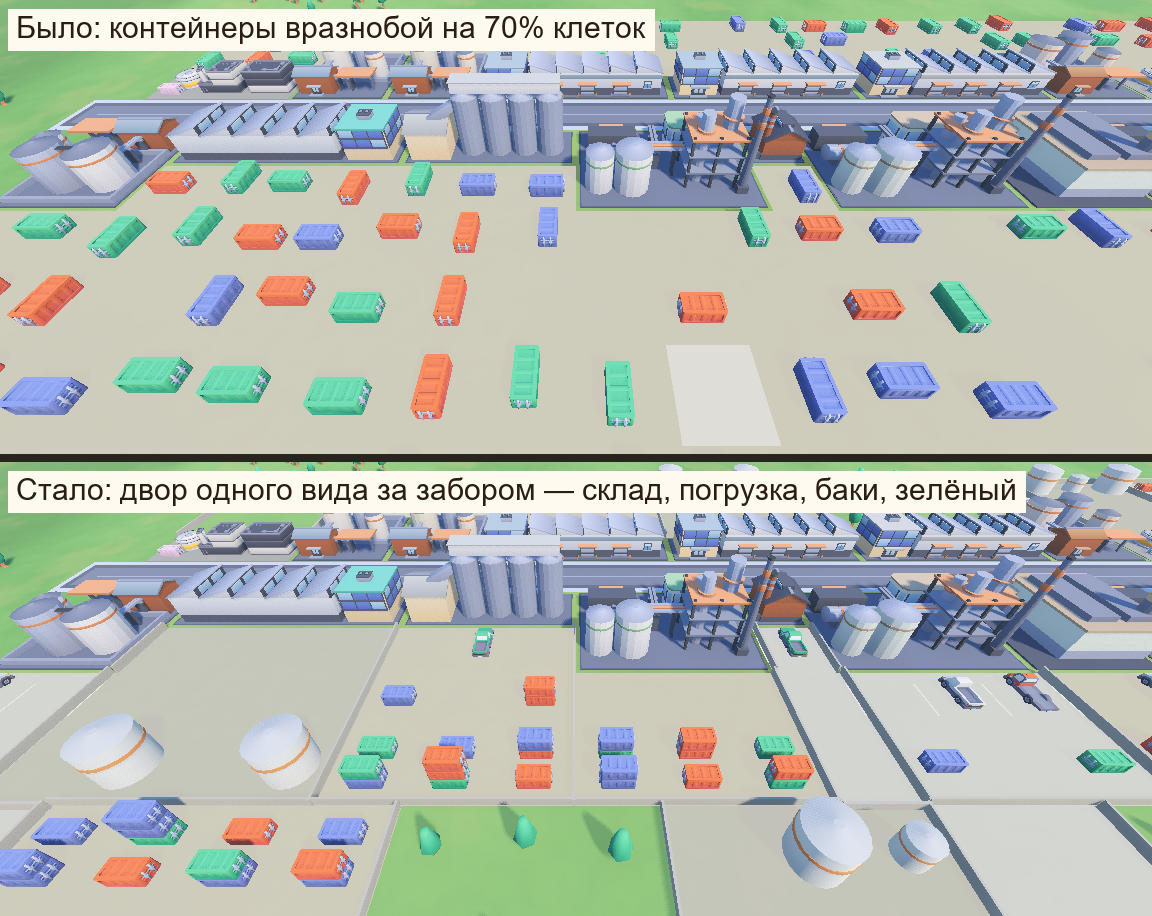
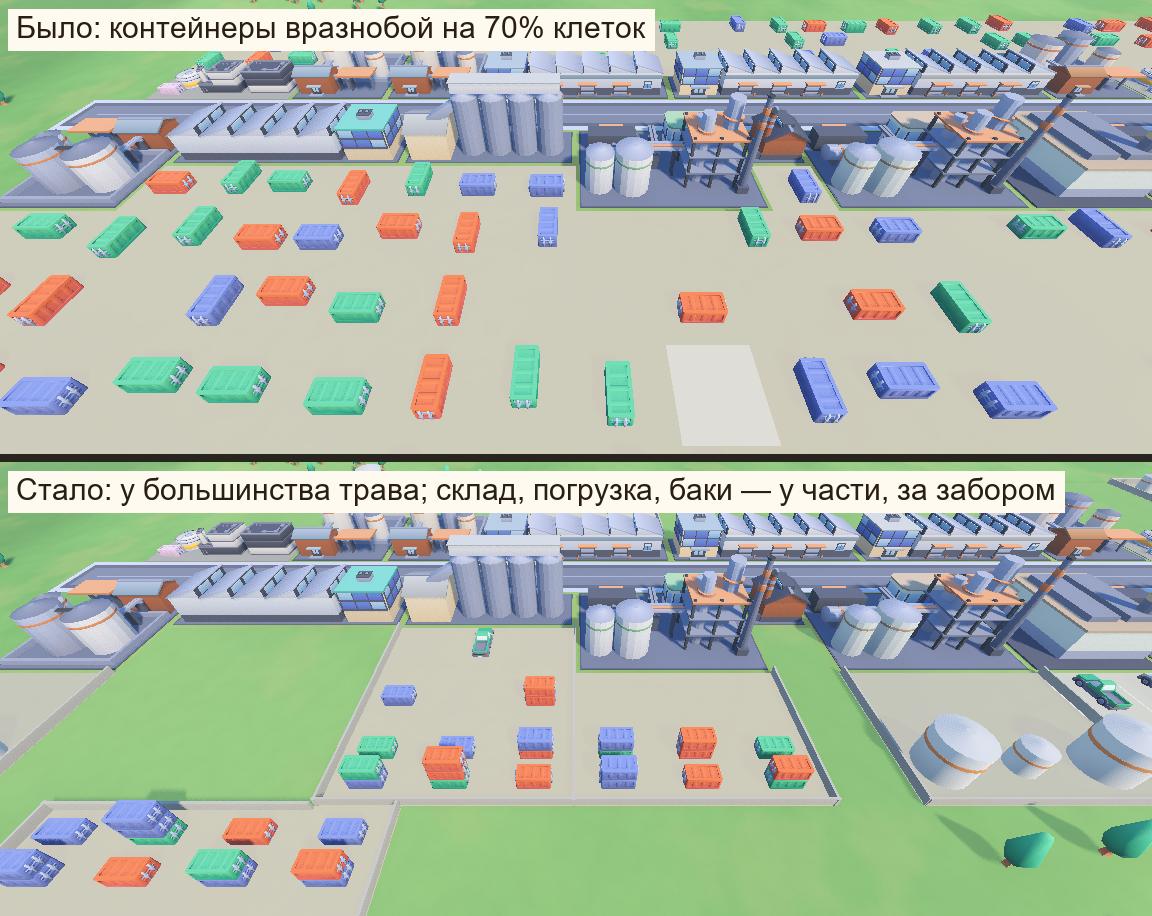
Дворы заводов: обставленный двор не у каждого — у большинства просто трава
Новый вид двора PLAIN (45 %): трава за цехом без забора и вещей; зелёный двор (12 %)
тоже без забора. Склад, погрузка и баки за бетонным забором — у 43 % заводов
(на тестовой улице — у 17 из 42, контейнеров 54 вместо 145).

diff --git a/docs/ARCHITECTURE.md b/docs/ARCHITECTURE.md
@@ -371,13 +371,14 @@ res://
 
 ### Дворы заводов (2026-11-08)
 Раньше за каждым заводом на 70 % клеток двора стоял контейнер Kenney со случайным поворотом и сдвигом, земля — один «утоптанный» тон: улица заводов превращалась в сплошную контейнерную стоянку (Андрей: «превращается в парковку с контейнерами»). Теперь (`YardVisualizer._works_yard`):
-- **Вид двора — один на участок** (`YardVisualizer.works_kind(lot)`, по зерну угла участка — тот же после загрузки; доли `WORKS_SHARES`): склад 35 %, погрузка 30 %, баки 15 %, зелёный 20 %. Ряды считаются от цеха: первый ряд двора — у здания, задний — у дальней границы участка.
+- **Вид двора — один на участок** (`YardVisualizer.works_kind(lot)`, по зерну угла участка — тот же после загрузки; доли `WORKS_SHARES`): склад 18 %, погрузка 17 %, баки 8 %, зелёный 12 %, пустой 45 %. Обставленный двор — меньше чем у половины заводов (Андрей: «не каждый завод должен это иметь»; сначала было склад 35 / погрузка 30 / баки 15 / зелёный 20 %).
+  - **Пустой** (`PLAIN`, `YARD_LAWN`): просто трава за цехом — без забора и вещей. Ряды считаются от цеха: первый ряд двора — у здания, задний — у дальней границы участка.
   - **Склад** (`YARD_GRAVEL`): в заднем ряду — два ряда контейнеров вдоль улицы, ярусами (2 яруса — 45 %, 3 — 12 %), в среднем ряду — один ряд через клетку; у цеха — грузовик (25 %).
   - **Погрузка** (`YARD_CONCRETE` — бетон): у цеха — места с разметкой, грузовики Kenney (truck, truck-flat, delivery, delivery-flat; масштаб 0.4) задом к воротам (70 %); сзади — пустой бетон и редкий контейнер.
   - **Баки** (`YARD_TANKS` — тёмный гравий): у задней границы — большой бак через клетку, между ними — малый; баки — цилиндры из кода в стиле силосов на зданиях (белый корпус, оранжевый пояс, крыша-конус; `_tank_mesh`), модели Kenney detail-tank выглядели «тарелками».
-  - **Зелёный** (`YARD_LAWN`): газон, ряд деревьев у задней границы и редкие деревья внутри.
-- **Бетонный забор** по краю двора (`WALL_HEIGHT = 0.3`, серый бетон; общий край двух дворов — один) — видно, где чей завод.
-- Контейнеры меньше (`CONTAINER_SCALE` 1.4 → 1.1), чтобы грузовики рядом не казались игрушечными. На тестовой улице (42 завода) — 145 контейнеров вместо 232, на 321 клетку двора.
+  - **Зелёный** (`YARD_LAWN`): газон, ряд деревьев у задней границы и редкие деревья внутри; без забора.
+- **Бетонный забор** — только у склада, погрузки и баков (`YardVisualizer.WALLED`; `WALL_HEIGHT = 0.3`, серый бетон; общий край двух дворов — один).
+- Контейнеры меньше (`CONTAINER_SCALE` 1.4 → 1.1), чтобы грузовики рядом не казались игрушечными. На тестовой улице (42 завода): обставленный двор — у 17, контейнеров 54 вместо 232 (на 321 клетку двора).
 - Тон земли двора `ZoneVisualizer._yard_color` берёт по `works_kind`. Снимок до/после — `docs/collab/visual/industry_yards.png`, проверка — `tests/39_works_yards.gd`.
 
 ### Советник вместо плашки подсказок (2026-11-08)
@@ -488,7 +489,7 @@ res://
 - **Двор:** клетки двора — зона, `Tile.EMPTY`, `lot_at` = участок. В `zoned_empty_cells` (свободная земля) только клетки без участка. Бульдозер по двору сносит дом участка; клик «Инфо» по двору — карточка дома.
 - **Цифры:** жители и места — по зданию (тип), двор — ноль. Плотность на клетку зоны падает (жильё ~ вдвое) — баланс в Р5.
 - **Старые сохранения:** дома и их участки — как были; участки без дома отбрасываются при загрузке (`rebuild_caches`); старые дома не у улицы стоят, пока не снесут. Участок в сохранении — до 7 × 4 клеток.
-- **Вид дворов** (`scripts/grid/yard_visualizer.gd`, узел `YardVisualizer`): тон земли двора рисует `ZoneVisualizer` (`YARD_LAWN`, `YARD_COURT`, `YARD_PARKING`, `YARD_GRAVEL`), предметы — мультимеши: жильё — белый штакетник по краям двора (общий край — один забор), деревья и клумбы Kenney; многоэтажки — деревья; магазины и офисы — разметка парковки (3 места на клетку) и машины Kenney (30 % мест); промзона — двор одного вида на участок за бетонным забором (с 2026-11-08, см. «Дворы заводов»; раньше — контейнеры Kenney вразнобой на 70 % клеток). Расстановка детерминированная по клетке; пересборка при смене `lots_version` или `buildings_version`.
+- **Вид дворов** (`scripts/grid/yard_visualizer.gd`, узел `YardVisualizer`): тон земли двора рисует `ZoneVisualizer` (`YARD_LAWN`, `YARD_COURT`, `YARD_PARKING`, `YARD_GRAVEL`), предметы — мультимеши: жильё — белый штакетник по краям двора (общий край — один забор), деревья и клумбы Kenney; многоэтажки — деревья; магазины и офисы — разметка парковки (3 места на клетку) и машины Kenney (30 % мест); промзона — двор одного вида на участок, у части — за бетонным забором (с 2026-11-08, см. «Дворы заводов»; раньше — контейнеры Kenney вразнобой на 70 % клеток). Расстановка детерминированная по клетке; пересборка при смене `lots_version` или `buildings_version`.
 - **Аудит** (кварталы 9×9, 600 тиков): 92 дома, спиной к улице — 0 (было 64 из 93); свободной размеченной земли 61 кл. из 424 (сироты на углах и ещё не застроенное). Много брошенных домов от шума у магазинов и заводов — это Р3.
 - Проверка — `tests/33_developer.gd` (снимок `tests/out/developer.png`).
 

diff --git a/docs/CHANGELOG.md b/docs/CHANGELOG.md
@@ -72,3 +72,4 @@
 - 2026-11-08 — Claude — дом растёт по стадиям: большой жилой участок теперь одно здание, а не россыпь домиков (было: «подворье» 3×2 — пять коттеджей, ур. 3 — те же коттеджи). Новые дома из кода (`ProceduralHouses`): рядный дом под одной крышей с дверью на каждую квартиру, дом с крылом во двор, на ур. 3 — П-образный дом в 4 этажа; по 4 семейства на размер (1×1 … 5×1, 2×2, 3×2). Повышение берёт следующую стадию того же семейства: тот же цвет и крыша, больше этажей и пристроек (ур. 1 — 1–2 этажа, ур. 2 — 2–3, ур. 3 — 3–4 с балконами). Домики Kenney и усадьбы Gemini на ур. 2 перестраиваются в такие дома, дальше растут сами; башни и офисы тоже растут своим семейством. Старые сохранения открываются (id составных участков остались). Снимок `docs/collab/visual/house_stages.png`, проверка `tests/37_house_stages.gd`
 - 2026-11-08 — Claude — «Советник» вместо плашки подсказок: плашка слева больше не закрывает карту. В верхней панели за часами — значок со счётчиком проблем (цвет — самой срочной), по клику — список: что мешает городу, по срочности, и у каждой записи «Показать» — камера летит к месту (ещё раз — к следующему), включается нужный слой карты (свет, вода, службы, пробки, загрязнение, шум) или вкладка построек; у заброшенных и несчастных домов открывается их карточка. Новая тревога — значок вспыхивает и на 5 секунд под ним всплывает строчка. Проверка `tests/38_advisor.gd`
 - 2026-11-08 — Claude — дворы заводов больше не сплошная контейнерная стоянка: у каждого завода двор одного вида за бетонным забором — склад (контейнеры ровными рядами у задней границы, ярусами), погрузка (бетон, разметка, грузовики задом к цеху), баки (белые цилиндры, как силосы на заводах) или зелёный двор с деревьями. Было: контейнеры вразнобой на 70 % клеток двора. Снимок до/после `docs/collab/visual/industry_yards.png`, проверка `tests/39_works_yards.gd`
+- 2026-11-08 — Claude — не у каждого завода обставленный двор: у большинства (45 %) за цехом просто трава без забора, у 12 % — зелёный двор с деревьями; склад, погрузка и баки за бетонным забором — у 43 % заводов (на тестовой улице — у 17 из 42, контейнеров 54 вместо 145)

diff --git a/docs/TASKS.md b/docs/TASKS.md
@@ -124,6 +124,6 @@
   - [x] Дом растёт по стадиям: одно здание на участок (ProceduralHouses), повышение — следующая стадия семейства
   - [ ] Лестница «домик → небоскрёб»: уровни 1–5, зона задаёт потолок (малоэтажная — до 3, многоэтажки — до 5)
   - [ ] Магазины и заводы: тоже одно здание на участок и стадии (сейчас торговые дворики и промбазы — из нескольких моделей)
-  - [x] Дворы заводов: один вид на участок за бетонным забором (склад, погрузка, баки, зелёный) вместо россыпи контейнеров
+  - [x] Дворы заводов: один вид на участок (склад, погрузка, баки — за бетонным забором, у меньшинства; зелёный; у большинства — трава) вместо россыпи контейнеров
 - [ ] Фаза 19 — живые детали, звук
 - [ ] Позже — день и ночь, времена года, катастрофы, моды
